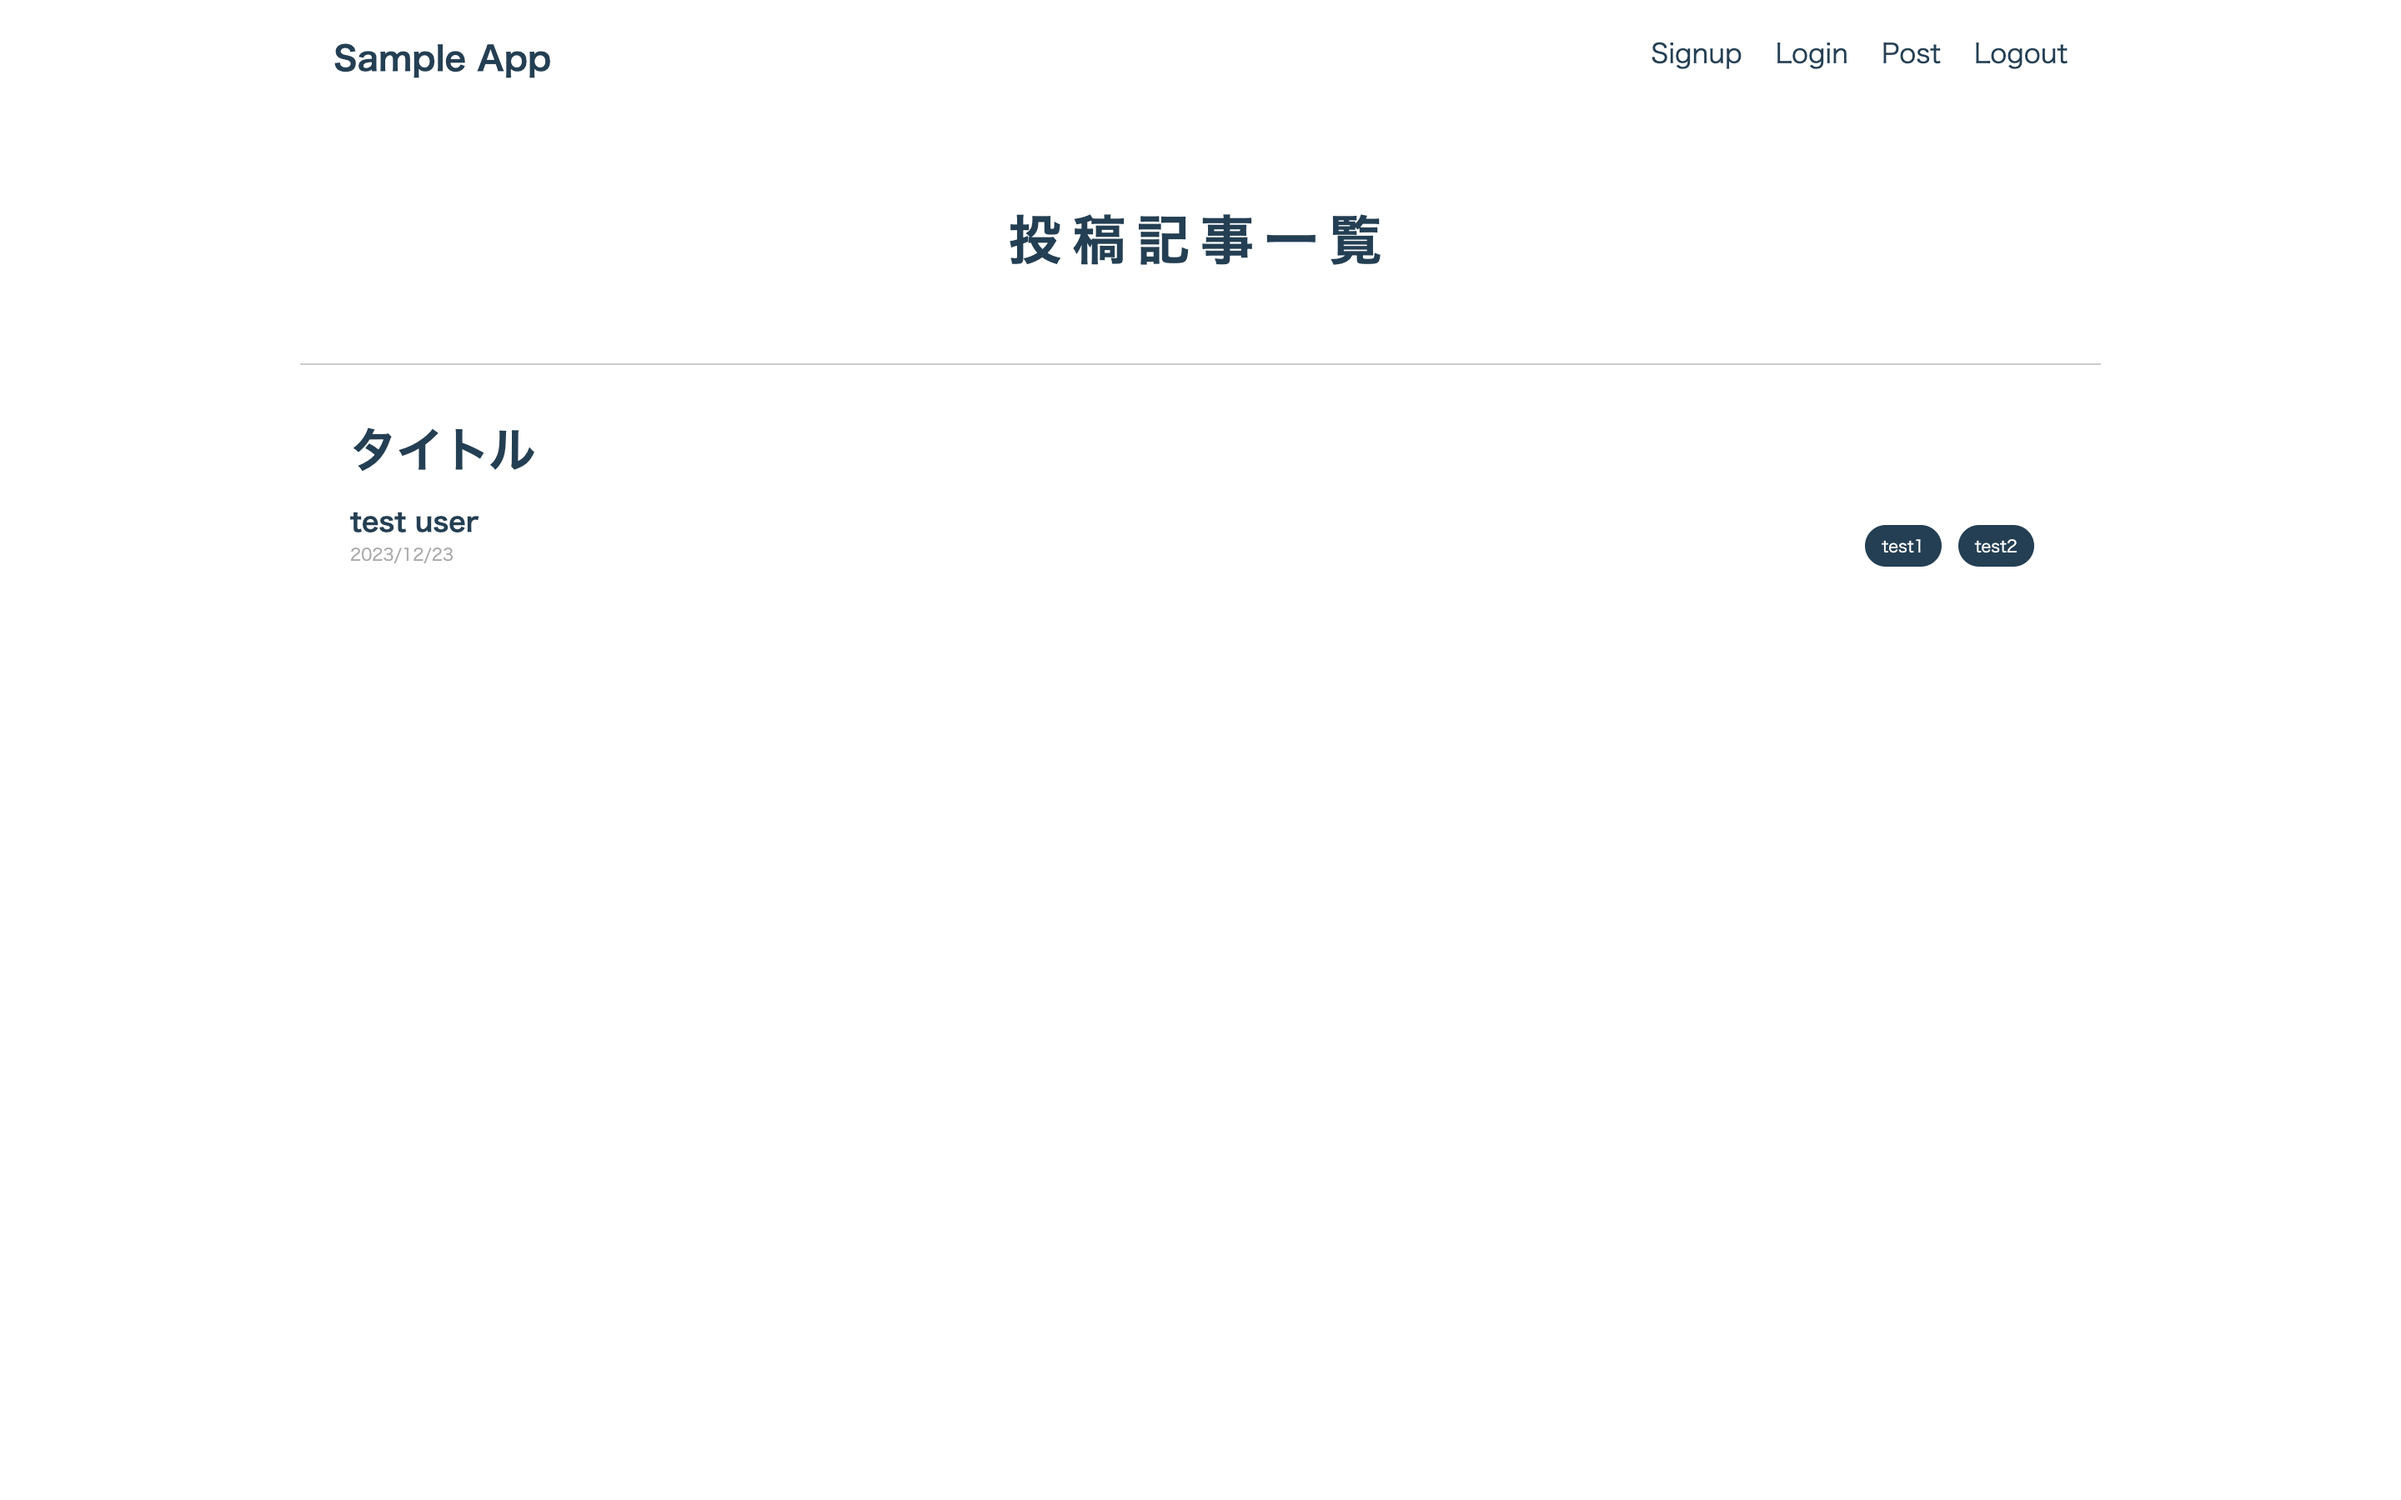
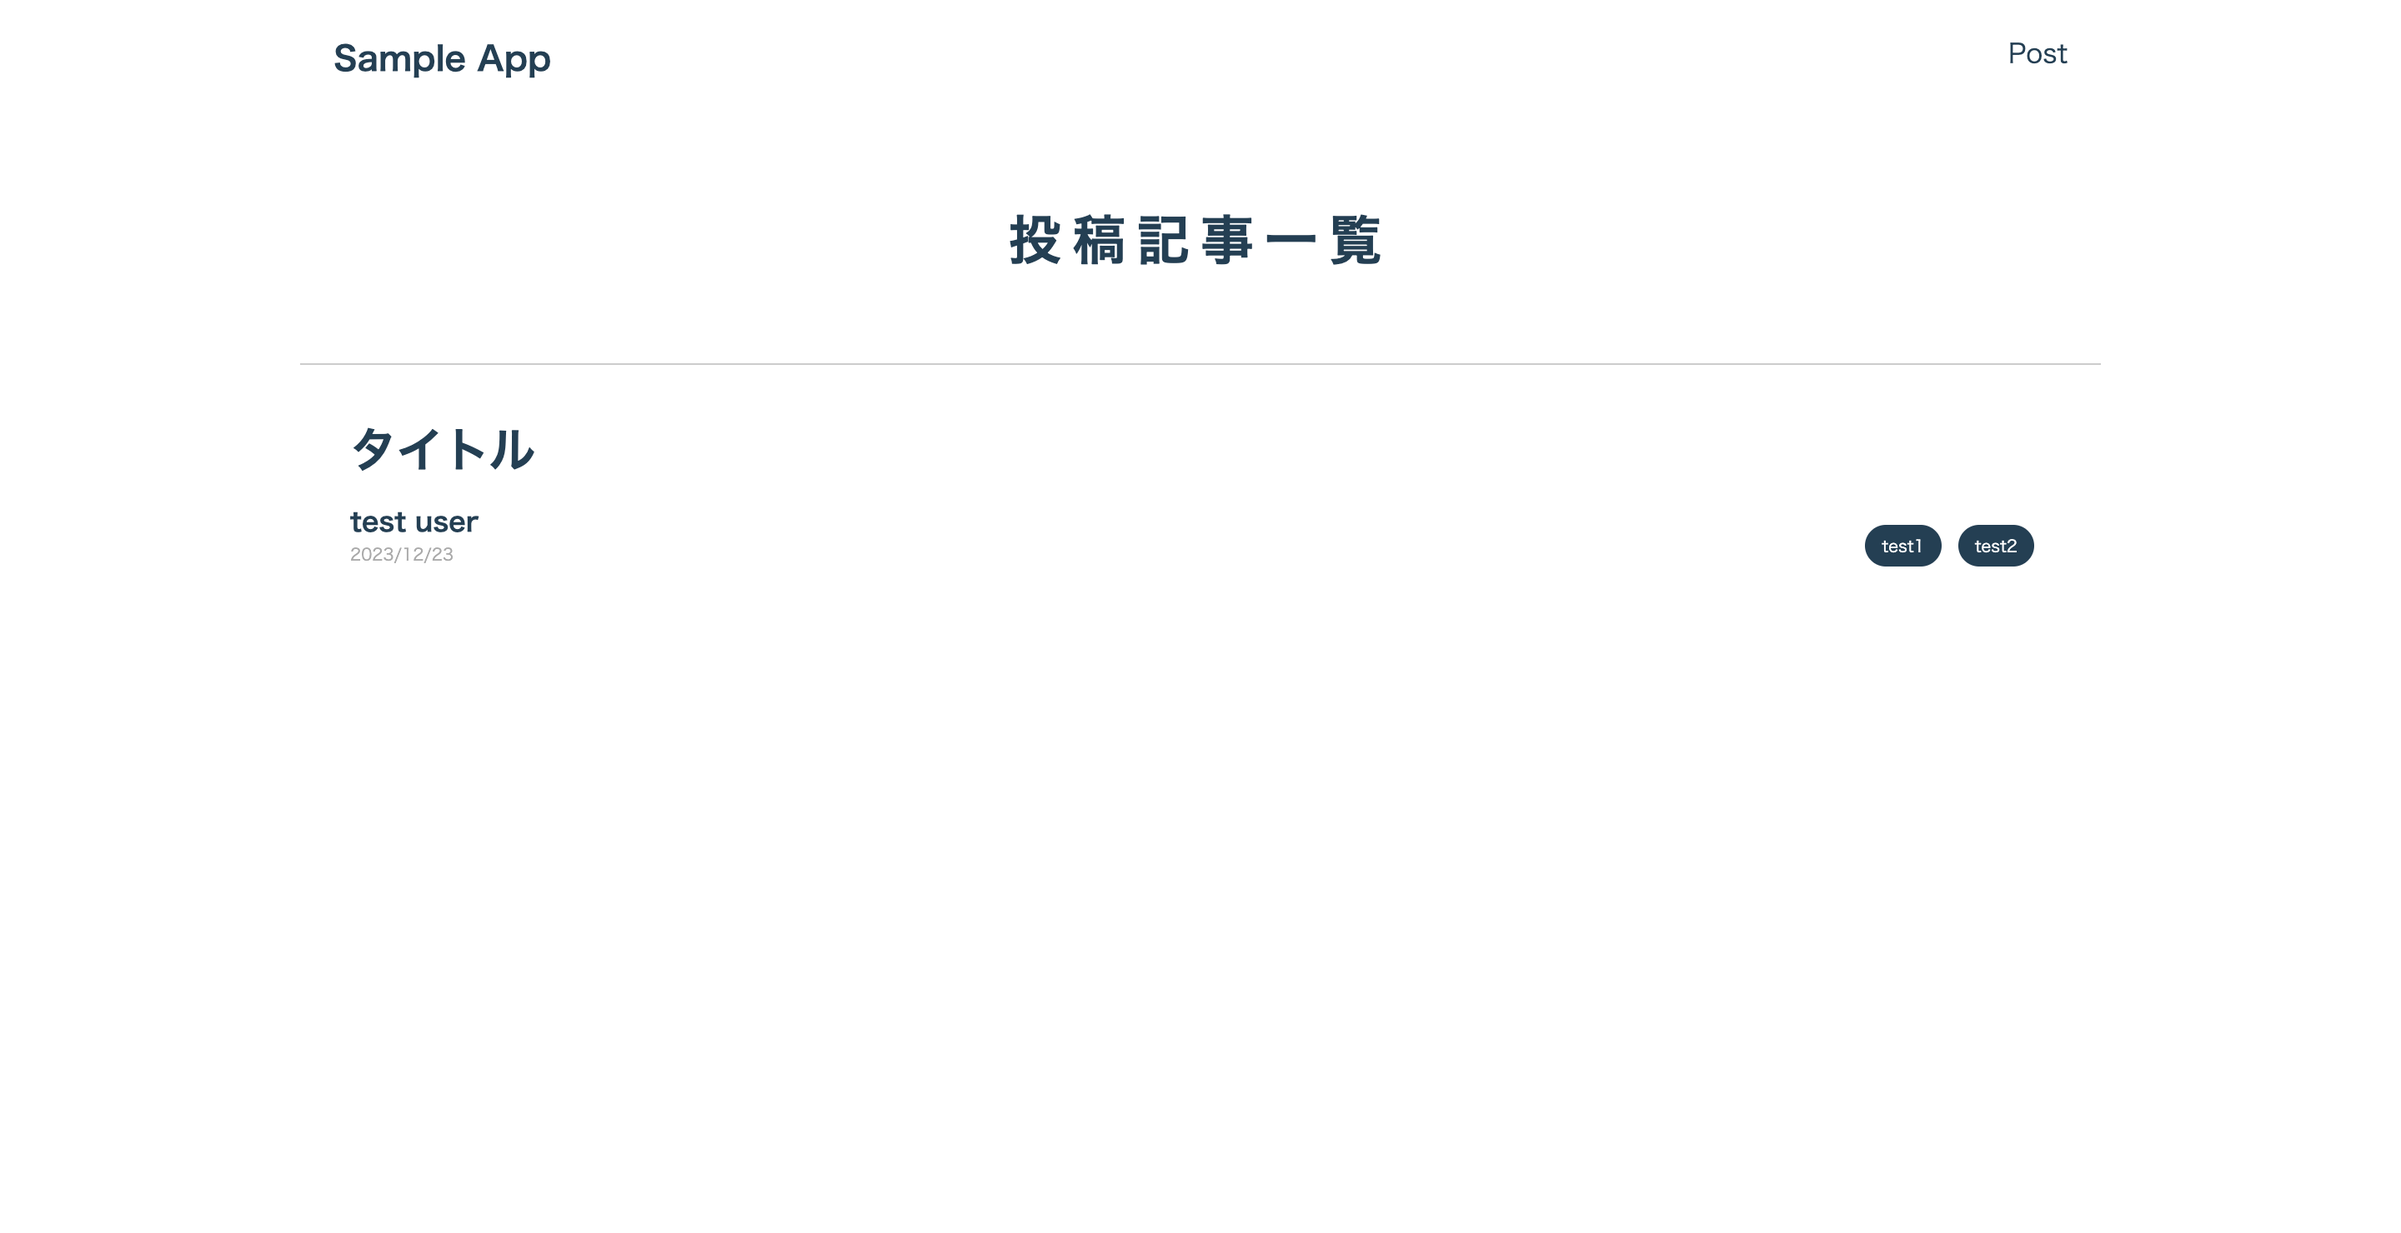
fix article

diff --git a/articles/1224f0874f287d.md b/articles/1224f0874f287d.md
@@ -1,5 +1,5 @@
 ---
-title: "ハンズオン形式で、Rails newからCRUD操作の基礎を学習しよう"
+title: "ハンズオン形式でRails newからCRUD操作の基礎を学習しよう"
 emoji: "😎"
 type: "tech" # tech: 技術記事 / idea: アイデア
 topics: [Rails, Ruby]
@@ -29,6 +29,8 @@ Railsで関連テーブルの扱い方に苦労したので、学習も兼ねて
 
 本記事では、その第一弾として、記事の投稿、編集、削除機能を実装していきます。
 
+タイトルのCRUD操作とは、（Create（作成）、Read（参照）、Update（更新）、Delete（削除））を指しており、データベースの基本操作の総称です。
+
 ## まえがき
 
 本記事では、[Ruby on Railsチュートリアル](https://railstutorial.jp/) （以下、Railsチュートリアル）のようなハンズオン形式で構成されています。
@@ -52,6 +54,9 @@ Railsチュートリアルよりも、内容を簡潔にし難易度を下げて
 ```shell
 rails _7.0.4.3_ new many_tables --database=mysql
 ```
+
+newの後に来るのはアプリ名です。
+好きな名前で大丈夫です。
 
 2. 作成したディレクトリへ移動
 
@@ -479,6 +484,12 @@ input:focus, textarea:focus {
   width: 150px;
   cursor: pointer;
 }
+
+button {
+  background: #fff;
+  font-size: 16px;
+  height: 100%;
+}
 ```
 
 :::
@@ -586,10 +597,7 @@ input:focus, textarea:focus {
   <div class="header-right">
     <nav>
       <ul>
-        <li><a href="/signup">Signup</a></li>
-        <li><a href="/login">Login</a></li>
         <li><a href="/post">Post</a></li>
-        <li><a href="/logout">Logout</a></li>
       </ul>
     </nav>
   </div>
@@ -1175,11 +1183,177 @@ formから送られてた`article_params`を使ってupdateメソッドを実行
 これで、記事の個別ページから編集フォームへ飛ぶことができます。
 試しに、どれでもいいので記事を編集して、変更されていることを確認してみてください。
 
+### formの共通化
+
+`new.html.erb`と`edit.html.erb`は、以下の部分が全く同じです。
+
+```ruby
+<div class="form-container">
+  <%= form_with(model: @article) do |f| %>
+    <div class="form-item">
+      <%= f.label :title, "タイトル", class: "form-label" %>
+      <%= f.text_field :title, placeholder: "タイトル", class: "form-input" %>
+    </div>
+    <div class="form-item">
+      <%= f.label :body, "本文", class: "form-label" %>
+      <%= f.text_area :body, rows: 10, placeholder: "記事を入力", class: "form-input" %>
+    </div>
+    <%= f.submit "投稿", class:"submit-button" %>
+  <% end %>
+</div>
+```
+
+こういうときは、一つのファイルにまとめることができます。
+
+`app/views/articles/`に、`_form.html.erb`というファイルを作成し、中身に共通部分を貼り付けましょう。
+
+```ruby:app/views/articles/_form.html.erb
+<div class="form-container">
+  <%= form_with(model: @article) do |f| %>
+    <div class="form-item">
+      <%= f.label :title, "タイトル", class: "form-label" %>
+      <%= f.text_field :title, placeholder: "タイトル", class: "form-input" %>
+    </div>
+    <div class="form-item">
+      <%= f.label :body, "本文", class: "form-label" %>
+      <%= f.text_area :body, rows: 10, placeholder: "記事を入力", class: "form-input" %>
+    </div>
+    <%= f.submit "投稿", class:"submit-button" %>
+  <% end %>
+</div>
+```
+
+そして、`new.html.erb`と`edit.html.erb`から共通部分を削除し、代わりに以下のように変更します。
+
+```diff ruby:app/views/articles/new.html.erb
+  <h1>新規投稿</h1>
++ <%= render 'form' %>
+```
+
+```diff ruby:app/views/articles/edit.html.erb
+  <h1>記事編集</h1>
++ <%= render 'form' %>
+```
+
+とてもシンプルになりました。
+この記述は、headerを共通化したときと同じですね。
+
+:::message
+新規投稿画面と記事編集画面にアクセスして、問題なく表示されているか確認してみましょう。
+:::
+
 ## STEP2-8 削除機能
 
-編集中
+それでは最後に記事の削除機能を実装していきます。
+まずはコントローラーにdestroyメソッドを定義します。
+
+```diff ruby:app/controllers/article_controoler.rb
+  def update
+    @article = Article.find(params[:id])
+    if @article.update(article_params)
+      redirect_to @article
+    end
+  end
+
++ def destroy
++   Article.find(params[:id]).destroy
++   redirect_to root_url, status: :see_other
++ end
+
+  private
+  def article_params
+    params.require(:article).permit(:title, :body)
+  end
+```
+
+この記述により、DELETEリクエストが飛んできたときに、該当記事をdestroyメソッドでデータベースから削除できます。
+
+`root_url`はroutes.rbに、`root 'articles#index'`と記述したことで使えるようになったもので、`http://localhost:3000`を表しています。
+
+その後の、`status: :see_other`については、ビューの修正をした後でまとめて解説します。
+
+```diff ruby:app/views/articles/show.html.erb
+- <a href="" class="delete-button">Delete</a>
++ <%= link_to "Delete", @article, data: { "turbo-method": :delete, turbo_confirm: "本当に削除しますか？" }, class: "delete-button" %>
+```
+
+deleteリクエストを送るには、特殊なlink_toの書き方をします。
+Rails7からの仕様で、`data: { "turbo-method": :delete}`としなければ、DELETEリクエストになりません。
+
+:::message
+rails7より前は、
+
+```ruby
+  <%= link_to "Delete", @article, method: :delete %>
+```
+
+この書き方で良かったみたいです。
+:::
+
+`turbo_confirm: "本当に削除しますか？"`とすることで、画面にalert表示できます。
+あってもなくても動作しますが、間違ってボタンを押してしまったときにすぐ消えてしまわないように、付けておいたほうが良いでしょう。
+
+link_toはhtmlに変換されたとき、以下のようになります。
+
+```ruby:link_toの場合
+<%= link_to "Delete", @article, data: { "turbo-method": :delete, turbo_confirm: "本当に削除しますか？" }, class: "delete-button" %>
+```
+
+```html:link_toをhtmlに変換
+<a data-turbo-method="delete" data-turbo-confirm="本当に削除しますか？" class="delete-button" href="/articles/1">Delete</a>
+```
+
+似たようなメソッドに、`button_to`というものがあります。これはbuttonタグに変換されるのですが、link_toとは書き方がことなります。
+
+```ruby:button_toの場合
+<%= button_to "Delete", @article, method: :delete, data: { turbo_confirm: "本当に削除しますか？" }, class: "delete-button" %>
+```
+
+```html:button_toをhtmlに変換
+<form class="button_to" method="post" action="/articles/1"><input type="hidden" name="_method" value="delete" autocomplete="off">
+  <button data-turbo-confirm="本当に削除しますか？" class="delete-button" type="submit">Delete</button>
+  <input type="hidden" name="authenticity_token" value="VuzvPRv7TXF3PkLhKK..." autocomplete="off">
+</form>
+```
+
+htmlへの変換も全く違っていて、POSTリクエストを行うformが生成されます。
+結果的はどちらも同じになります。
+
+コントローラーの`status: :see_other`に戻りますが、まずstatusとつけることで、httpステータスコードを指定することができます。
+
+DELETEリクエストの後にリダイレクトを行うとき、一部のブラウザでは元のリクエスト（ここではDELETEリクエスト）を使用してリダイレクトが行われます。
+
+つまり、
+DELETEリクエスト → リダイレクト → リダイレクト先へDELETEリクエストを送信
+となってしまい、意図していないDELETEが起こってしまう可能性があるのです。
+
+`status: :see_other`を指定すると、GETリクエストになるので安全というわけです。
+
+:::message
+see_otherのステータスコード「303」です。
+このステータスコードを指定することもできるので、
+
+```ruby
+redirect_to root_url, status: 303
+```
+
+としても同じ意味になります。
+:::
+
+以上で、基本的なCRUD操作ができるアプリが完成しました。
+今回は、基本の使い方のみ解説する都合で、テストコードや、バリデーションを無視しました。
+
+さらに踏み込んだ学習がしたい場合は、Railsチュートリアルをやるのが一番良いと思います。
 
 ## まとめ
 
 今回は、簡易ブログサイトを例に、基本的なCRUD処理の書き方を解説しました。
+
+しかし、ここまでの実装では以下のような問題点を残しています。
+
+- 他人が投稿した記事についても編集、削除ができてしまう
+- ユーザー登録機能を実装していないため、誰が投稿したものか分からない
+
 続編として、ユーザーの認証機能や、関連テーブルを一括で保存する処理、多対多のモデル定義などを考えています。
+
+完成しましたら公開していきますので、引き続きよろしくお願いいたします。
